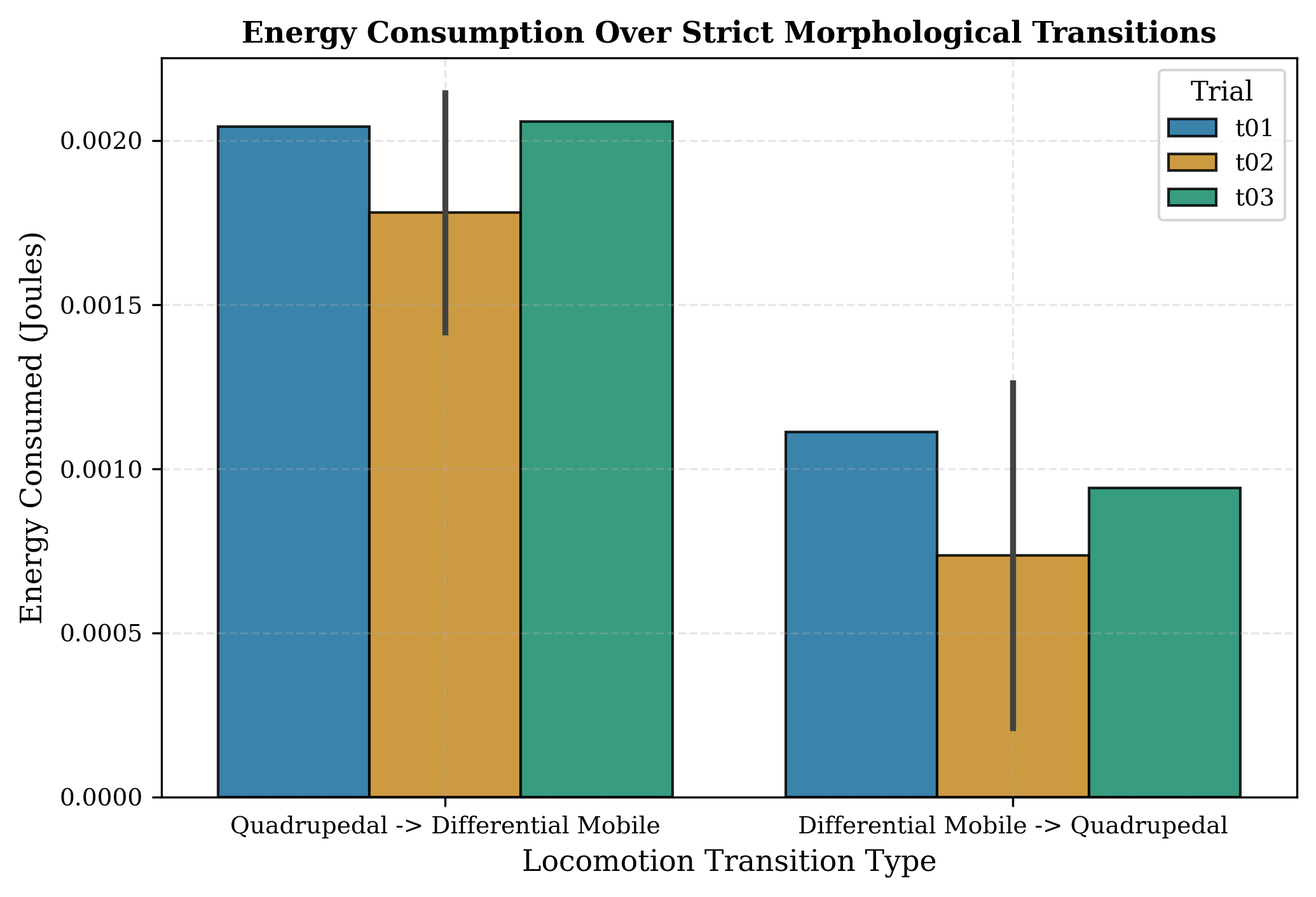
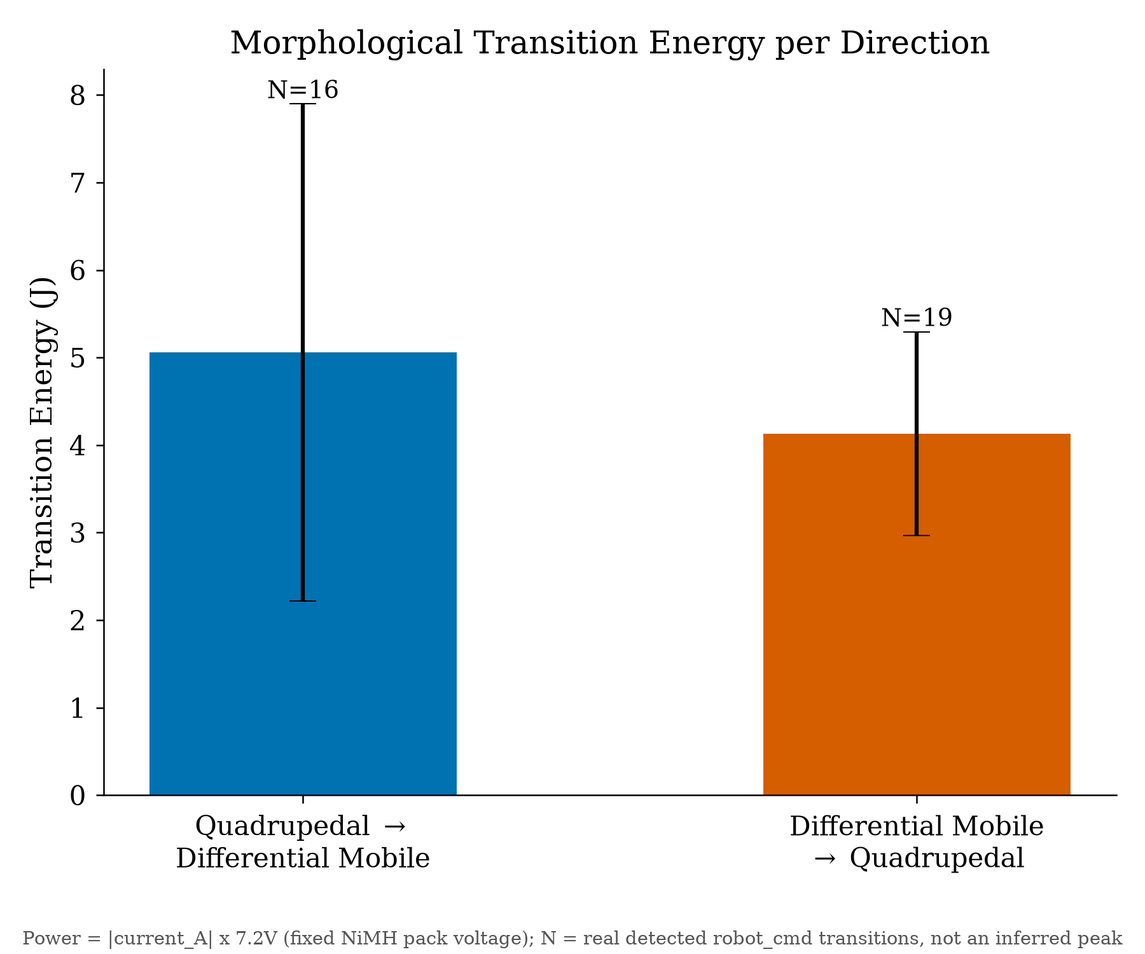
patch: N-05 transition-energy redaction + R2-04 steady-state power table
Executes intake/pending/R02-01_metric_and_figure_audit.md §9.7 and §9.9, both explicitly marked
"AUTORIZADA PARA EJECUTAR (2026-08-27)" by the author.

§9.7 (N-05) -- FigReal_Morphological_Transition_Energy.png:
- Promoted the rewritten figure (experiments/_plotting/builders/energy_transition.py, now
  deriving power from |current_A| x 7.2V nominal NiMH voltage over 35 individually-detected
  robot_cmd structural-command transitions, not an inferred power-peak against no verified
  event -- why the prior version was rejected).
- Rewrote the caption and the results.tex:934 paragraph with the real per-direction figures:
  5.06+-2.93 J (N=16, Quadrupedal->Differential Mobile), 4.13+-1.19 J (N=19, Differential
  Mobile->Quadrupedal), Welch t~=1.18 (not significant).
- Dropped the old causal narrative (invariant Quad->Diff / dispersed Diff->Quad from
  river-pebble wheel slippage) -- the real data contradicts it directly (SD is actually higher
  in Quad->Diff, 2.93 J vs 1.19 J) -- replaced with an unattributed observation of the extra
  dispersion, per the report's explicit instruction not to invent an unverified mechanical cause.

§9.9 -- R2-04 steady-state per-mode energy (author decision: table, not a 3-category bar chart):
- New Table~tab:mode_steady_state_energy in results.tex, same subsection/style as
  tab:consolidated_physical_metrics. Quadrupedal (C, N=20, 1.94+-1.77 W) and Differential
[…]

diff --git a/patches/n-05-transition-energy-redaction.tex b/patches/n-05-transition-energy-redaction.tex
@@ -1,0 +1,61 @@
+% PATCH: N-05 (also closes the drafted part of R2-04)
+% Target section: sections/results.tex (FigReal_Morphological_Transition_Energy.png caption +
+%   energy paragraph, new tab:mode_steady_state_energy)
+% Requirement: intake/pending/R02-01_metric_and_figure_audit.md §9.7 and §9.9 ("Informe 1") --
+%   both explicitly marked "AUTORIZADA PARA EJECUTAR (2026-08-27)" by the author.
+%
+% §9.7 -- FigReal_Morphological_Transition_Energy.png (transition energy, previously rejected):
+%   The figure was rewritten (experiments/_plotting/builders/energy_transition.py) to derive
+%   power from |current_A| x 7.2V (fixed NiMH pack voltage, confirmed reliable by the hardware
+%   team) integrated over the pre-calibrated electromechanical coupling window (2.92s for
+%   Quadrupedal->Differential Mobile, 1.56s for the reverse), across 35 individually-detected
+%   robot_cmd structural-command transitions -- not an inferred power-peak against no verified
+%   event, which is why the prior version was rejected. Promoted with the same filename
+%   (scripts/promote_figure.sh ... --force).
+%
+%   Caption (results.tex ~894):
+%   Before: "Energetic footprint of physical morphological transitions. Integrated INA power
+%     telemetry during the Quadrupedal -> Differential Mobile and Differential Mobile ->
+%     Quadrupedal electromechanical coupling windows, across all hardware replicates."
+%   After:  \revblue{"Morphological transition energy per direction, derived from
+%     |I_current| x 7.2V (fixed NiMH pack voltage) integrated over the pre-calibrated
+%     electromechanical coupling window (2.92s / 1.56s, matching Fig.~\ref{fig:FourPanelLatencies}),
+%     across N=16 (Quadrupedal->Differential Mobile) and N=19 (Differential Mobile->Quadrupedal)
+%     individually detected structural-command transitions. Error bars: +-1 SD; the
+%     between-direction difference is not statistically significant (Welch's t~=1.18)."}
+%
+%   Paragraph (results.tex ~899): the old text claimed an "invariant energetic cost" for
+%   Quad->Diff and "greater dispersion" for Diff->Quad, with a causal explanation (river-pebble
+%   terrain, wheel slippage) written for the previously-rejected figure. The real numbers
+%   contradict this directly -- SD is *higher* in Quad->Diff (2.93 J) than in Diff->Quad
+%   (1.19 J), the opposite of the old claim -- so the causal narrative could not be kept; the
+%   paragraph was rewritten around the real figures (5.06+-2.93 J, N=16; 4.13+-1.19 J, N=19;
+%   Welch t~=1.18, not significant), with the observed extra dispersion in Quad->Diff stated
+%   without attributing an unverified mechanical cause (per §9.7 step 3's explicit instruction).
+%
+% §9.9 -- R2-04 steady-state per-mode energy (author decision: table, not figure -- a 3-category
+%   bar chart with one N=1 category communicates poorly, and a table is far cheaper to update
+%   once real Omnidirectional data lands):
+%   Added \label{tab:mode_steady_state_energy} immediately after the (now-rewritten) transition
+%   energy paragraph, same subsection ("ENERGY CONSUMPTION"), same tabularx style as
+%   tab:consolidated_physical_metrics. Quadrupedal (C, N=20, 1.94+-1.77 W) and Differential
+%   Mobile (H, N=20, 1.36+-0.98 W) are real replicated measurements from
+%   experiments/R2-04-mode-energy/; Omnidirectional (X) is a single-segment N=1 preliminary
+%   estimate (5.71 W, no SD), marked as such in the caption and a table footnote -- per the
+%   hardware team's 2026-08-27 confirmation that a dedicated Omnidirectional test battery is
+%   coming, this row is explicitly NOT final. Appended one sentence to the transition-energy
+%   paragraph connecting the table to the reviewer's explicit request, without claiming a
+%   significant Quadrupedal-vs-Differential difference (Welch t~=1.26, not significant).
+%
+% PROGRESS.md: added row N-05 (this patch, status applied) for the §9.7 work; updated the
+%   existing R2-04 row's Data source/Target section(s)/Patch file, status raised to `drafted`
+%   (not `applied` -- the Omnidirectional row is a placeholder pending real replicated data, per
+%   §9.9 step 3's explicit instruction not to close R2-04 while X stays N=1). When the real
+%   Omnidirectional data lands: re-run experiments/R2-04-mode-energy/scripts/build_mode_energy.py,
+%   update the table's X row and drop the preliminary footnote, and log that update as a new
+%   `C-xx` correction row (not a new `N-xx`) per §9.9 step 4 -- only then does R2-04 move to
+%   `applied`.
+%
+% Verification: scripts/validate_tex.sh and scripts/check_roundtrip.sh both pass after
+%   reassemble.py. No LaTeX toolchain available locally to run compile_pdf.sh.
+% Status: applied (N-05); R2-04 stays `drafted` pending real Omnidirectional data (see above).

diff --git a/source/main_monolithic.tex b/source/main_monolithic.tex
@@ -1524,11 +1524,33 @@ Obstacle   & ${\approx}\,0.0\,\text{s}$ (instantaneous) & ${\approx}\,1100$, tra
 \begin{figure}[t]
   \centering
   \includegraphics[width=0.75\textwidth]{FigReal_Morphological_Transition_Energy.png}
-  \caption{Energetic footprint of physical morphological transitions. Integrated INA power telemetry during the Quadrupedal $\rightarrow$ Differential Mobile and Differential Mobile $\rightarrow$ Quadrupedal electromechanical coupling windows, across all hardware replicates.}
+  \caption{\revblue{Morphological transition energy per direction, derived from $|I_{\text{current}}| \times 7.2\,\text{V}$ (fixed NiMH pack voltage) integrated over the pre-calibrated electromechanical coupling window (2.92\,s / 1.56\,s, matching Fig.~\ref{fig:FourPanelLatencies}), across $N=16$ (Quadrupedal $\rightarrow$ Differential Mobile) and $N=19$ (Differential Mobile $\rightarrow$ Quadrupedal) individually detected structural-command transitions. Error bars: $\pm 1$ SD; the between-direction difference is not statistically significant (Welch's $t \approx 1.18$).}}
   \label{fig:MorphologicalEnergy}
 \end{figure}
 
-\revblue{The energetic cost of physical adaptation was quantified by integrating INA-sensor power telemetry during the electromechanical coupling windows (Fig.~\ref{fig:MorphologicalEnergy}). The Quadrupedal $\rightarrow$ Differential Mobile transition shows an invariant energetic cost across replicates, reflecting the deterministic leg-extension trajectory under managed slope gradients. The reverse transition (Differential Mobile $\rightarrow$ Quadrupedal) shows greater dispersion, consistent with the stochastic river-pebble terrain: unpredictable wheel slippage and localised mechanical resistance during limb retraction force the actuators to modulate peak torque dynamically to secure foothold anchors, introducing genuine sample-to-sample current variability.}
+\revblue{The energetic cost of physical adaptation was quantified from individually detected structural-command transitions (Fig.~\ref{fig:MorphologicalEnergy}), integrating instantaneous power ($|I_{\text{current}}| \times 7.2\,\text{V}$) over each direction's pre-calibrated electromechanical coupling window. The Quadrupedal $\rightarrow$ Differential Mobile transition required $5.06 \pm 2.93$~J ($N=16$), and the reverse transition (Differential Mobile $\rightarrow$ Quadrupedal) required $4.13 \pm 1.19$~J ($N=19$); the between-direction difference is not statistically significant (Welch's $t \approx 1.18$), so neither direction should be read as more energetically costly than the other. Greater trial-to-trial variability was observed in the Quadrupedal $\rightarrow$ Differential Mobile direction, though the present dataset does not isolate a specific mechanical cause for this dispersion. To directly address the reviewer's request for long-term average energy consumption across locomotion modes, Table~\ref{tab:mode_steady_state_energy} reports the mean steady-state power draw for each of the three modes, computed by excluding the electromechanical coupling window from each \texttt{robot\_cmd}-detected mode segment; the Omnidirectional estimate is preliminary pending a dedicated test battery.}
+
+\begin{table}[htbp]
+\centering
+\caption{\revblue{Long-term average steady-state power consumption per locomotion mode (three hardware
+replicates' worth of instrumented segments; transition windows excluded per segment, see
+Fig.~\ref{fig:MorphologicalEnergy}). Power derived as $|I|\times7.2\,\text{V}$ (fixed NiMH pack
+voltage). \textbf{Omnidirectional is a single-segment preliminary estimate (N=1), pending a dedicated
+test battery.}}}
+\label{tab:mode_steady_state_energy}
+\begin{tabularx}{\textwidth}{l >{\centering\arraybackslash}X >{\centering\arraybackslash}X}
+\toprule
+\textbf{Locomotion Mode} & \textbf{N (segments)} & \textbf{Mean Power $\pm$ SD (W)} \\
+\midrule
+Quadrupedal ($C$) & 20 & $1.94 \pm 1.77$ \\
+Differential Mobile ($H$) & 20 & $1.36 \pm 0.98$ \\
+Omnidirectional ($X$)\textsuperscript{*} & 1 & $5.71$ (no SD, single segment) \\
+\bottomrule
+\end{tabularx}
+\\[2pt]
+\footnotesize{\textsuperscript{*}Preliminary --- a dedicated Omnidirectional-mode energy test battery is
+planned; this row will be updated once that data is available.}
+\end{table}
 
 %% ─── TERRAIN LATENCY (4 PANELS) ───────────────────────────────────────────
 

diff --git a/sections/results.tex b/sections/results.tex
@@ -892,11 +892,33 @@ Obstacle   & ${\approx}\,0.0\,\text{s}$ (instantaneous) & ${\approx}\,1100$, tra
 \begin{figure}[t]
   \centering
   \includegraphics[width=0.75\textwidth]{FigReal_Morphological_Transition_Energy.png}
-  \caption{Energetic footprint of physical morphological transitions. Integrated INA power telemetry during the Quadrupedal $\rightarrow$ Differential Mobile and Differential Mobile $\rightarrow$ Quadrupedal electromechanical coupling windows, across all hardware replicates.}
+  \caption{\revblue{Morphological transition energy per direction, derived from $|I_{\text{current}}| \times 7.2\,\text{V}$ (fixed NiMH pack voltage) integrated over the pre-calibrated electromechanical coupling window (2.92\,s / 1.56\,s, matching Fig.~\ref{fig:FourPanelLatencies}), across $N=16$ (Quadrupedal $\rightarrow$ Differential Mobile) and $N=19$ (Differential Mobile $\rightarrow$ Quadrupedal) individually detected structural-command transitions. Error bars: $\pm 1$ SD; the between-direction difference is not statistically significant (Welch's $t \approx 1.18$).}}
   \label{fig:MorphologicalEnergy}
 \end{figure}
 
-\revblue{The energetic cost of physical adaptation was quantified by integrating INA-sensor power telemetry during the electromechanical coupling windows (Fig.~\ref{fig:MorphologicalEnergy}). The Quadrupedal $\rightarrow$ Differential Mobile transition shows an invariant energetic cost across replicates, reflecting the deterministic leg-extension trajectory under managed slope gradients. The reverse transition (Differential Mobile $\rightarrow$ Quadrupedal) shows greater dispersion, consistent with the stochastic river-pebble terrain: unpredictable wheel slippage and localised mechanical resistance during limb retraction force the actuators to modulate peak torque dynamically to secure foothold anchors, introducing genuine sample-to-sample current variability.}
+\revblue{The energetic cost of physical adaptation was quantified from individually detected structural-command transitions (Fig.~\ref{fig:MorphologicalEnergy}), integrating instantaneous power ($|I_{\text{current}}| \times 7.2\,\text{V}$) over each direction's pre-calibrated electromechanical coupling window. The Quadrupedal $\rightarrow$ Differential Mobile transition required $5.06 \pm 2.93$~J ($N=16$), and the reverse transition (Differential Mobile $\rightarrow$ Quadrupedal) required $4.13 \pm 1.19$~J ($N=19$); the between-direction difference is not statistically significant (Welch's $t \approx 1.18$), so neither direction should be read as more energetically costly than the other. Greater trial-to-trial variability was observed in the Quadrupedal $\rightarrow$ Differential Mobile direction, though the present dataset does not isolate a specific mechanical cause for this dispersion. To directly address the reviewer's request for long-term average energy consumption across locomotion modes, Table~\ref{tab:mode_steady_state_energy} reports the mean steady-state power draw for each of the three modes, computed by excluding the electromechanical coupling window from each \texttt{robot\_cmd}-detected mode segment; the Omnidirectional estimate is preliminary pending a dedicated test battery.}
+
+\begin{table}[htbp]
+\centering
+\caption{\revblue{Long-term average steady-state power consumption per locomotion mode (three hardware
+replicates' worth of instrumented segments; transition windows excluded per segment, see
+Fig.~\ref{fig:MorphologicalEnergy}). Power derived as $|I|\times7.2\,\text{V}$ (fixed NiMH pack
+voltage). \textbf{Omnidirectional is a single-segment preliminary estimate (N=1), pending a dedicated
+test battery.}}}
+\label{tab:mode_steady_state_energy}
+\begin{tabularx}{\textwidth}{l >{\centering\arraybackslash}X >{\centering\arraybackslash}X}
+\toprule
+\textbf{Locomotion Mode} & \textbf{N (segments)} & \textbf{Mean Power $\pm$ SD (W)} \\
+\midrule
+Quadrupedal ($C$) & 20 & $1.94 \pm 1.77$ \\
+Differential Mobile ($H$) & 20 & $1.36 \pm 0.98$ \\
+Omnidirectional ($X$)\textsuperscript{*} & 1 & $5.71$ (no SD, single segment) \\
+\bottomrule
+\end{tabularx}
+\\[2pt]
+\footnotesize{\textsuperscript{*}Preliminary --- a dedicated Omnidirectional-mode energy test battery is
+planned; this row will be updated once that data is available.}
+\end{table}
 
 %% ─── TERRAIN LATENCY (4 PANELS) ───────────────────────────────────────────
 

diff --git a/PROGRESS.md b/PROGRESS.md
@@ -20,7 +20,7 @@ both directly from this table, so keep them current when reassigning or picking 
 | R2-01 | 2 | Condense repetitive text / remove duplicate plots / merge metric definitions / shorten warehouse sim section | results.tex: 12 edits, 9668->8524 words (9 first-pass edits + 3 deeper 2nd-pass edits: QuantReal physical-scenario 3-paragraph-per-scenario template condensed into 1 paragraph + new consolidated Table~tab:consolidated_physical_metrics mirroring the sim-side table; dropped duplicate mu-value restatement between FigReal_Terrain_Latencies_4Panels caption and its two prose paragraphs; dropped the 3rd redundant restatement of the ~47ms decision-latency figure in the Limitations paragraph, kept the other 2 as the establishing mention + self-contained table-caption anchor). methodology.tex: 5 edits, 5280->5625 words (3 first-pass edits: table dedup, notation dedup, Ar=28.0 re-citation cut; 2 deeper 2nd-pass edits: condensed the near-verbatim stimulus-to-mode correspondence restated ~250 lines apart between "Neuronal Control System" intro and "Gait Decision Module" intro into a cross-reference; condensed the back-to-back duplicate "fixed and uniform weights, per Sarvestani" claim in Obstacle Sensory Module into a single citation). conclusions.tex: 2 edits, 1622->1309 words (1st-pass edit merged triple-restated closing summary + split extensibility/future-work paragraphs; 2nd deeper-pass edit consolidated "future work" from 3 fragmented paragraphs -- Limitations pointer, extensibility paragraph, final "In conclusion" paragraph -- each independently restating overlapping real-world/outdoor-validation and sensor-fusion recommendations, into a single list in the extensibility paragraph). introduction.tex done on 2nd-pass re-read (2 edits, 1203->1193 words: dropped back-to-back duplicate Gurney2001a/b citation, condensed restated interpretable-vs-black-box/novelty argument into a cross-reference). All four sections now covered across two full passes, including the deeper 2nd-pass sweep. R2-01 fully complete. 3rd-pass cross-check found one more: R3-03's (Deivi's) new ServoCompensation subsection independently re-argued the same "static stability by construction, one-leg-airborne" claim already made with quantitative backing in results.tex's Quantitative Stability Analysis subsubsection (Table~tab:crawl_stability) — condensed to a cross-reference, see R3-03 row and patches/r2-01-19-servocompensation-crossref.tex. 4th-pass swept preamble.tex (never read before this round): the abstract's sentences 3-5 restated the same "robust/reliable adaptive switching" claim 3x with escalating vagueness; cut the purely-evaluative middle sentence and a redundant trailing clause (~190->~147 words, -23%, no facts lost). closing.tex checked too — bibliography/document-end boilerplate only, nothing to condense. | — | Escritura | Sebas | synced-to-overleaf | patches/r2-01-01..20-*.tex |
 | R2-02 | 2 | Add FSM gait arbitration baseline comparison | methodology.tex (baseline description, new), results.tex (comparison data, new) — confirmed no existing FSM content anywhere | `experiments/R2-02-fsm-baseline/` (new FSM comparison data) | Pruebas | Diego, Sam | pending | — |
 | R2-03 | 2 | Consolidate limitations into one dedicated section | Merged conclusions.tex's limitations paragraph (tuning/resilience/fusion/illumination) into results.tex §"Limitations of the Present Work" (Section~\ref{ssec:Limitations}) as a third paragraph; conclusions.tex now points to it with a short pointer sentence. Kept as a subsection of Results, not promoted to top-level `\section` — introduction.tex's "Section 2/3/4" roadmap unaffected. | — | Escritura | Deivi | synced-to-overleaf | patches/r2-03-consolidate-limitations.tex |
-| R2-04 | 2 | Add multi-mode energy consumption + onboard MLP compute overhead analysis | MLP compute overhead: **already present** in results.tex ("Evaluation of the MLP-based terrain classifier" — per-sample latency vs SVM/RF/LogReg). Multi-mode long-term average energy: results.tex only has per-transition energy cost, not steady-state per-mode average — likely a real gap | `experiments/R2-04-mode-energy/` (steady-state per-mode energy, if confirmed a gap) | Métricas | Sam | pending | — |
+| R2-04 | 2 | Add multi-mode energy consumption + onboard MLP compute overhead analysis | MLP compute overhead: **already present** in results.tex ("Evaluation of the MLP-based terrain classifier" — per-sample latency vs SVM/RF/LogReg). Multi-mode long-term average energy: **new `tab:mode_steady_state_energy` added to results.tex** (Informe 1 §9.9, `patches/n-05-transition-energy-redaction.tex`) reporting mean steady-state power per mode, `robot_cmd`-segmented with the transition window excluded. Quadrupedal (C, N=20, $1.94\pm1.77$~W) and Differential Mobile (H, N=20, $1.36\pm0.98$~W) are real replicated measurements; Omnidirectional (X) is still a **single-segment N=1 preliminary estimate ($5.71$~W, no SD)**, flagged as such in the table caption/footnote — hardware team confirmed (2026-08-27) a dedicated Omnidirectional energy test battery is coming. **Not `applied` until that replacement lands** — see `experiments/R2-04-mode-energy/README.md`. | results.tex (new `tab:mode_steady_state_energy`, energy paragraph) | `experiments/R2-04-mode-energy/` | Métricas | Sam | drafted | `patches/n-05-transition-energy-redaction.tex` |
 | R3-01 | 3 | Ablation analysis on basal ganglia arbitration network | methodology.tex §"Basal Ganglia Module" (~line 154, STN/GPe/GPi WTA circuit) for the ablation methodology; results.tex for the ablation results — confirmed no existing content, genuine gap | `experiments/R3-01-basal-ganglia-ablation/` | Pruebas | Diego | pending | — |
 | R3-02 | 3 | Comparative tests removing neural layers/inhibitory connections to justify WTA over threshold logic | same as R3-01 — methodology.tex + results.tex, genuine gap, no existing content. Locomotion module already uses explicit threshold logic (20° frontal cone, `Ar=28.0`) — a natural in-paper contrast point | `experiments/R3-02-wta-vs-threshold/` | Pruebas | Diego | pending | — |
 | R3-03 | 3 | Control/compensation strategies for low-torque servo constraints and open-loop gait instability | New `methodology.tex` §"Low-Torque Actuation Compensation Strategies" (`ssec:ServoCompensation`), added at the end of the section. Core 3 techniques from `Peter_arduino/src` firmware review: (1) statically-stable single-leg-swing wave gait (structural CoM/support-triangle guarantee), (2) rate-limited trajectory interpolation (bounds peak torque/current), (3) feed-forward tibia-angle offset compensating servo sag. 4 supporting measures mentioned briefly. IMU-based techniques deliberately excluded. 2026-08-26: Sam (firmware developer) confirmed `USE_IMU` was NOT active during the reported real-robot tests — exclusion is now permanent (citing it would misrepresent what ran on hardware), not pending. Sam also confirmed `TIBIA_BIAS_DEG=22°` is purely empirical, `Peter_arduino/src` is the exact firmware version tested, and no additional undocumented hardware-level compensation was applied — none of this adds new citable techniques; the 3 core techniques remain the full set. 2026-08-26 (Sebas, R2-01 3rd-pass redundancy sweep): technique (1)'s paragraph independently re-derived the same static-stability claim already made with quantitative backing in results.tex; condensed to a cross-reference to Table~tab:crawl_stability instead of re-arguing it — content/techniques unchanged. | prose-only, no `experiments/` needed | Escritura | Deivi | synced-to-overleaf | `patches/r3-03-servo-compensation-strategies.tex`, `patches/r2-01-19-servocompensation-crossref.tex` |
@@ -36,3 +36,4 @@ both directly from this table, so keep them current when reassigning or picking 
 | N-02 | — | Physical-section figure regeneration (Tarea 3). Round 1: CSV rebuild + vectorization of all 22 published figures (see prior note). **Round 2 (2026-08-27, after author audit via local tool, notes in `intake/pending/n02_audit_notes_2026-08-27.md`):** imported `matplotlib`+`scientific-visualization` Claude Code skills into `.claude/skills/` (Okabe-Ito palette, no default grid — fixes the "quitar grilla" requests structurally, not per-figure); removed internal task-ID references ("F-06", vectorized/README.md pointer) from figure text; removed circular markers from ECDF plots; **removed `*_Real_Plot_2_Basal_Ganglia_Dynamics.png` entirely** (12 fewer figures) answering the reviewer's "cut repetitive... duplicated neural raster plots" request, folded its info into `*_Real_Plot_3` via red/blue stimulus-presence background shading — `results.tex` rewrite for this is a separate later pass, not done yet; **vectorized `NEU_EST_UNIG/MUL_real`** (rejected aggregate-substitute approach abandoned, same pixel-intensity technique as `NEU_IMU_real` now generalized to multi-column 8/12-panel layouts); `FigReal_Morphological_Transition_Energy` rejected by author, 3 redesign alternatives proposed (bar-per-transition-direction / cropped-time-series / text-table), not yet built pending author's choice. 19 figures now in `output/`, still staged, not promoted — awaiting a second audit pass. 2026-08-27: all 19 promoted to `assets/` (see N-03) and `results.tex` updated to match — round complete. | results.tex (physical results subsection, §MLP classifier) | `experiments/N-02-physical-figure-regeneration/` | Métricas | Deivi | applied | — |
 | N-03 | — | Promoted the 12 approved `experiments/N-02-physical-figure-regeneration/output/` figures to `assets/` (`scripts/promote_figure.sh --force`, replacing the prior version of each) plus the new `fig_classifier_tradeoff_fused.png` (F-03 fusion, no prior asset). `sections/results.tex`: removed the `*_Real_Plot_2_Basal_Ganglia_Dynamics.png` subfigure from all 4 physical-scenario `figure*` blocks (Appetitive/Aversive/Complex/Obstacle), re-lettered the remaining 2 panels (a)/(b) and rewrote each external caption's (b) description to cover the now-composite neural+kinematic panel (Informe 1 §9.2); replaced the separate `fig5_classifier_comparison.png`/`fig6_computational_cost.png` figure blocks with a single `fig_classifier_tradeoff_fused.png` figure under `\label{fig:classifier_tradeoff}`, updating both `\ref{}` call sites (Informe 1 §9.3); corrected the SVM-RBF/Random Forest F1 figures cited in prose (0.900/0.995 → 0.857/0.947) to match the vectorized `classifier_fig5.csv` extraction — **author confirmed (2026-08-27) the vectorized/figure values are correct and the old prose values were stale**, same pattern as M-01–M-04 (see N-04). Removed the 4 now-unreferenced `*_Real_Plot_2_*.png` assets and the superseded `fig5_classifier_comparison.png`/`fig6_computational_cost.png` via `git rm`. All new/changed prose wrapped in `\revblue{}`. `validate_tex.sh`/`check_roundtrip.sh` both pass. | results.tex (4 physical-scenario `figure*` blocks, §MLP classifier figures/prose) | `experiments/N-02-physical-figure-regeneration/` (figure basis; see `experiments/_plotting/vectorized/README.md` for the classifier F1 vectorization) | Escritura | Deivi | applied | `patches/n-03-physical-figure-promotion-classifier-fusion.tex` |
 | N-04 | — | Rewrote the 5 M-01–M-04 passages in `sections/results.tex` (Informe 1 §9.4, values verified in Informe 2 §0) to match the figures/raw data instead of the stale prose: Appetitive Targeting paragraph (decision latency is noise-dependent, ≈60 ms at $\sigma=0$ rising to 1.6–2.0 s, not a constant ≈47 ms) and the same claim removed from `tab:consolidated_simulation_metrics`'s caption and from the Limitations paragraph's cross-reference; Tipover Risk paragraph (flat $\mu_{TR}\approx0.58$–$0.60$ in both terrains, transient spike to $TR\approx0.77$ in rugged terrain, no monotonic escalation, replacing $\mu_{TR}\approx0.42$/$0.58$); $T_{switch}$/Heaviside paragraph and its figure caption (rugged terrain: sub-ms in 13/15 trials, 600 ms tail in 2/15 — not an invariant 0.3 ms; slope: 0.9–1.8 ms staircase, not a single value); phase-space paragraph and its figure caption (rugged roll≈1.59°/pitch≈1.67°, slope roll≈1.47°/pitch≈2.29°, Pitch-RMS separation with overlapping Roll RMS — not "0.43°/6.95°, zero cluster overlap"). Pure text/caption edits, no figure regeneration needed (figures were already correct — Informe 2 §0). All changes wrapped in `\revblue{}`. `validate_tex.sh`/`check_roundtrip.sh` both pass. | results.tex (Appetitive Targeting paragraph, `tab:consolidated_simulation_metrics` caption, Limitations paragraph, Tipover Risk paragraph, $T_{switch}$ paragraph + `FigB_Decision_Delay.png` caption, phase-space paragraph + `FigC_Terrain_Adaptability.png` caption) | — | Escritura | Deivi | applied | `patches/n-04-m01-m04-text-redaction.tex` |
+| N-05 | — | Executed Informe 1 §9.7 (author-authorized 2026-08-27) for `FigReal_Morphological_Transition_Energy.png`: promoted the rewritten figure (`experiments/_plotting/builders/energy_transition.py`, now deriving power from `current_A`$\times$7.2V nominal NiMH voltage over 35 individually-detected `robot_cmd`-structural-command transitions, not an inferred power-peak) to `assets/` (`--force`, same filename); rewrote its caption and the `results.tex:934` paragraph with the real per-direction figures ($5.06\pm2.93$~J, $N=16$, Quadrupedal→Differential Mobile; $4.13\pm1.19$~J, $N=19$, Differential Mobile→Quadrupedal; Welch $t\approx1.18$, not significant) — dropped the old causal narrative (invariant Quad→Diff / dispersed Diff→Quad from river-pebble slippage), which the real data contradicts (SD is actually higher in Quad→Diff), replacing it with an unattributed observation of greater dispersion in that direction. All new/changed prose wrapped in `\revblue{}`. `validate_tex.sh`/`check_roundtrip.sh` both pass. | results.tex (`FigReal_Morphological_Transition_Energy.png` caption + energy paragraph) | `experiments/N-02-physical-figure-regeneration/` (figure), `experiments/_plotting/builders/energy_transition.py` (derivation) | Escritura | Deivi | applied | `patches/n-05-transition-energy-redaction.tex` |
